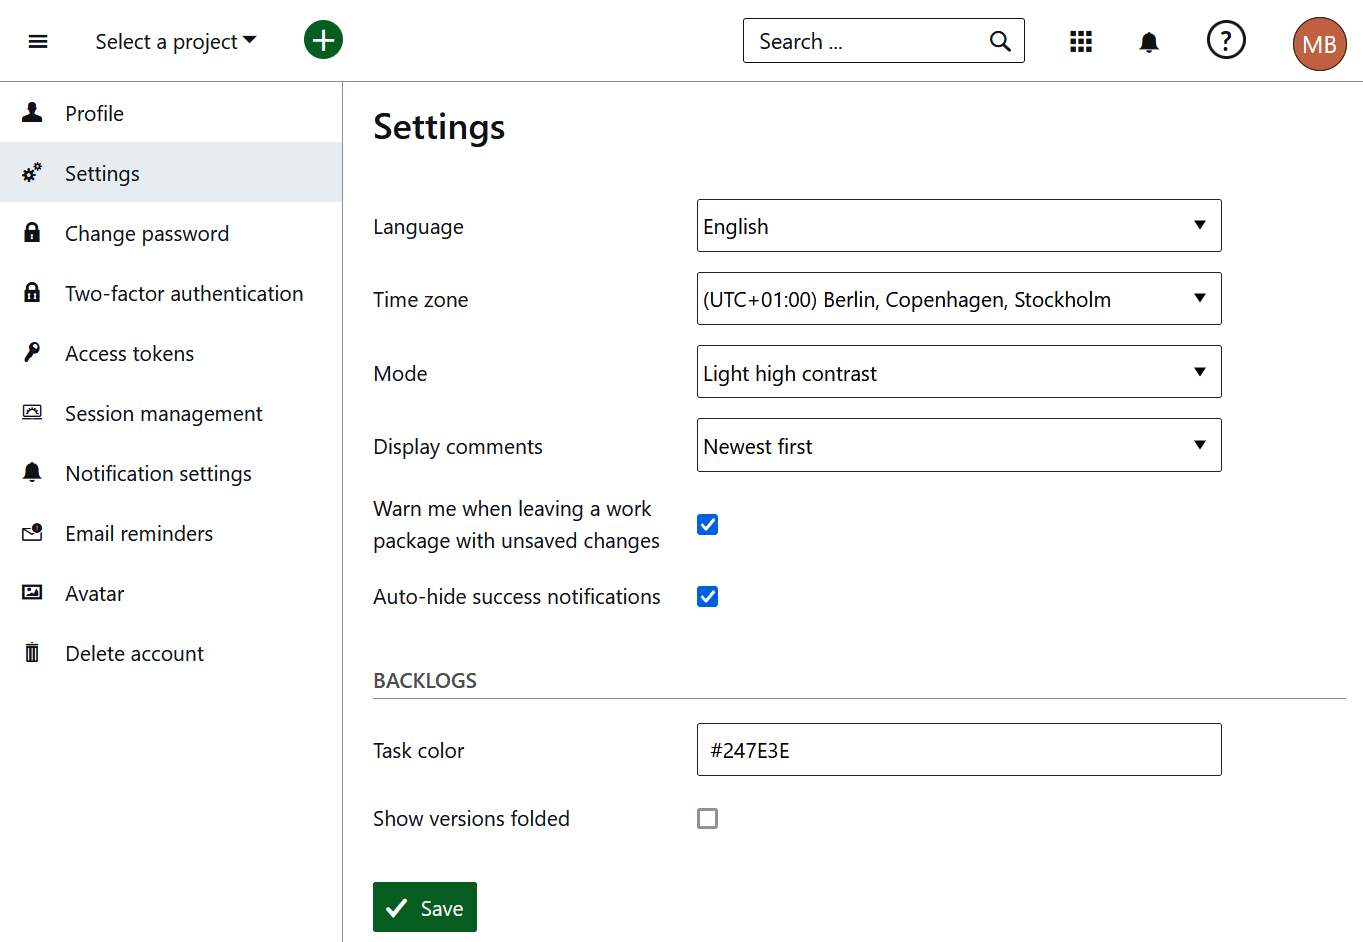
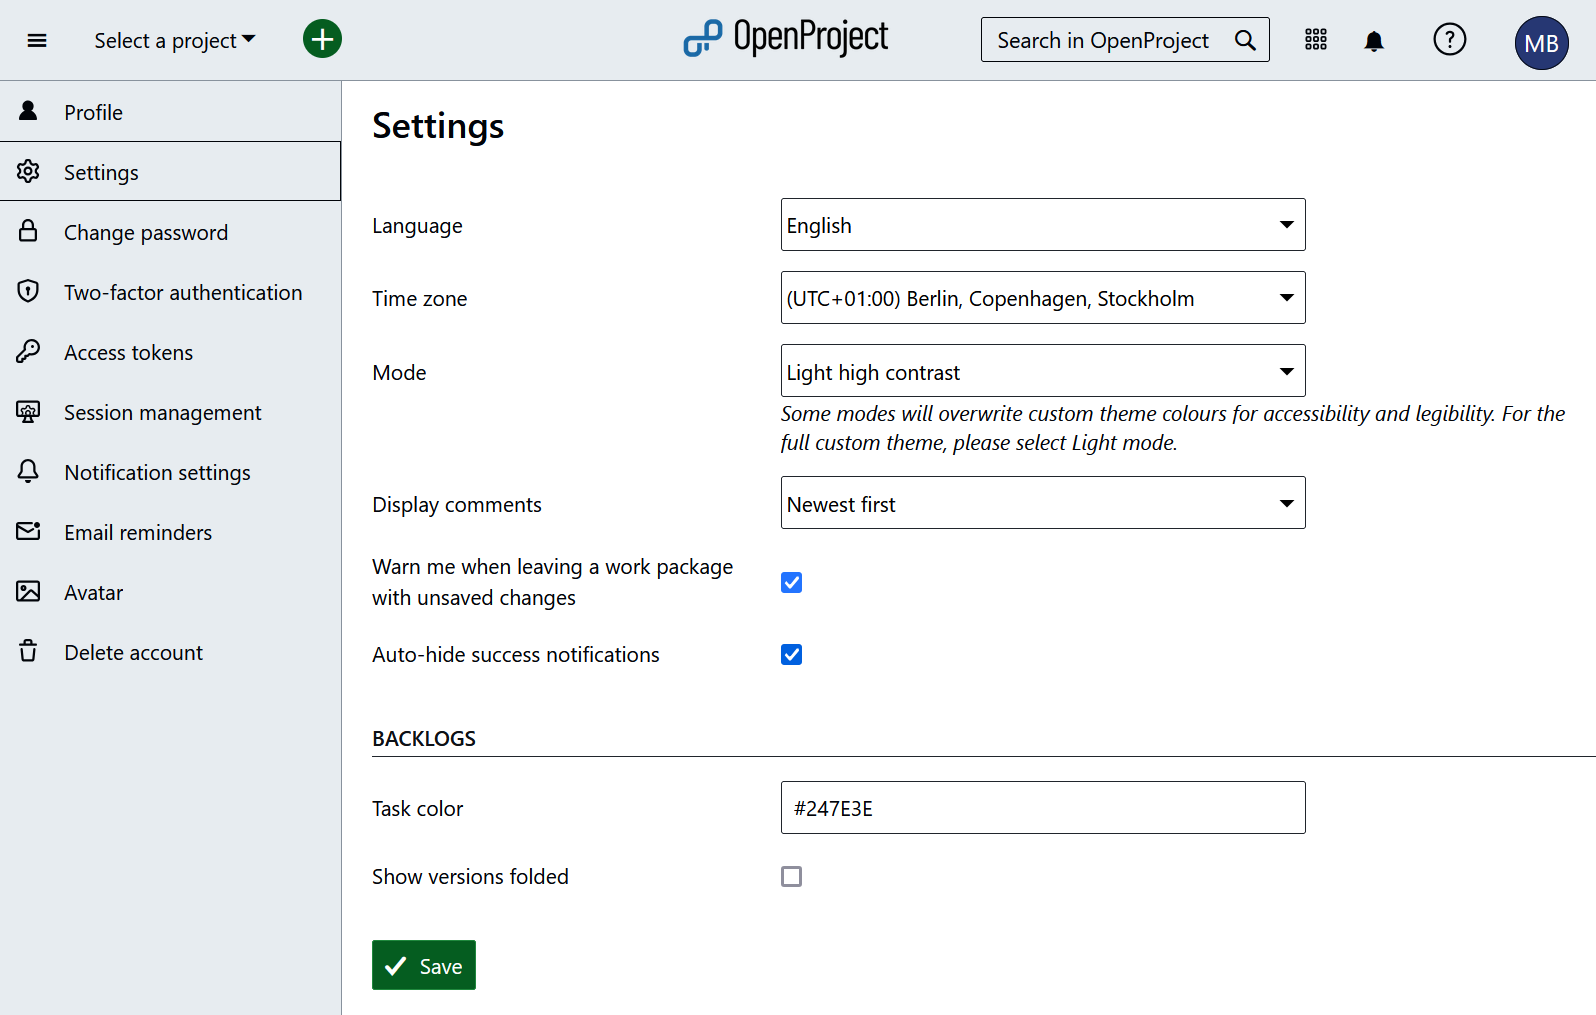
[#56634] 14.4 Documentation: OpenProject Dark Mode  https://community.openproject.org/work_packages/56634
[#56634] 14.4 Documentation: OpenProject Dark Mode

https://community.openproject.org/work_packages/56634

diff --git a/docs/getting-started/my-account/README.md b/docs/getting-started/my-account/README.md
@@ -48,7 +48,7 @@ Also, you can activate a **warning if you are leaving a work package with unsave
 
 Additionally, you can activate to **auto-hide success notifications** from the system. This (only) means that the green pop-up success notifications will be removed automatically after five seconds.
 
-![OpenProject_my_account_page](openproject_my_account_page_new.png)
+![OpenProject_my_account_page](openproject_my_account_page_settings.png)
 
 ### Change your language
 
@@ -76,6 +76,12 @@ This mode is recommended for users with visuals impairment.
 
 ![High contrast mode in OpenProject](openproject_my_account_high_contrast_mode.png)
 
+### Select the dark mode
+
+In the dropdown menu **Mode** you can pick the color mode. The default setting is the **Light mode**. You can also select the **Dark mode**, which will change the color theme of the OpenProject instance for you.
+
+![Dark mode in OpenProject](openproject_my_account_dark_mode.png)
+
 ### Change the order to display comments
 
 You can select the order of the comments (for example of the comments for a work package which appear in the Activity tab). You can select the **oldest first** or **newest first** to display the comments.
@@ -100,7 +106,8 @@ Enter your new password and confirm it a second time.
 
 Press the blue **Save** button in order to confirm the password changes.
 
-> **Note**: You cannot reset your Google password in OpenProject. If you authenticate with a Google/Gmail account, please go to your Google account administration in order to change your password.
+> [!NOTE]
+> You cannot reset your Google password in OpenProject. If you authenticate with a Google/Gmail account, please go to your Google account administration in order to change your password.
 
 ## Two-factor authentication
 
@@ -196,7 +203,9 @@ RSS tokens allow users to keep up with the latest changes in this OpenProject in
 
 Create a new token by clicking the **+RSS token** button. This will create your token and trigger a message showing you the access token.
 
-> **Note**: You will only be able to see the RSS access token once, directly after you create it. Make sure to copy it.
+> [!IMPORTANT]
+>
+> You will only be able to see the RSS access token once, directly after you create it. Make sure to copy it.
 
 ![OpenProject RSS token](openproject_my_account_access_tokens_rss.png)
 
@@ -209,7 +218,9 @@ To view and manage your OpenProject sessions navigate to **My account** and choo
 - **Current sessions**: here you can see all of your sessions. If for example you are logged into OpenProject from different browsers or devices, all will be shown in the list. Current session is the one you are currently using. You can terminate the sessions that are no longer in use. Inactive sessions will be removed from the list after 7 days (depending on the authentication settings they may become invalid earlier).
 - **Remembered devices**: here you can see a list of all devices that you are logged into using the "Stay logged in" option. You will have selected that option when [logging in](../sign-in-registration/). Whether or not that option is available and the duration of time for which you can stay logged in depends on the authentication settings of your instance.
 
-> **Note**: Closing a browser does not necessarily terminate the session. It might still be displayed in the list and will be reactivated if you open the browser. This depends on both your browser's and the OpenProject instance's settings.
+> [!NOTE]
+>
+> Closing a browser does not necessarily terminate the session. It might still be displayed in the list and will be reactivated if you open the browser. This depends on both your browser's and the OpenProject instance's settings.
 
 ## Notifications settings
 
@@ -233,7 +244,9 @@ Default: Enable daily email reminders: 2am, Monday - Friday.
 
 You can choose to receive emails immediately, or only on certain days and times, temporarily pause reminder emails, or opt for no reminders at all.
 
-> **Note**: if you have selected the *immediately when someone mentions me* option, you will only be notified once, i.e. this reminder will not be duplicated in a daily reminder. 
+> [!IMPORTANT]
+>
+> if you have selected the *immediately when someone mentions me* option, you will only be notified once, i.e. this reminder will not be duplicated in a daily reminder. 
 
 You can also opt-in to receive **email alerts for other items (that are not work packages)** whenever one of your project members:
 
@@ -256,7 +269,9 @@ OpenProject uses Gravatar as default profile image. It displays a preview of you
 
 Also, you can upload a **Custom Avatar** by choosing a Avatar to be uploaded from a file. Press the blue **Update** button to change your profile picture.
 
-> **Note**: The optimum size to upload a new profile picture is 128 by 128 pixel. Larger files will be cropped.
+> [!TIP]
+>
+> The optimum size to upload a new profile picture is 128 by 128 pixel. Larger files will be cropped.
 
 ## Delete account
 
@@ -266,6 +281,8 @@ To delete your account, select **Delete account** from the side menu and enter y
 
 ![openproject_my_account_delete_account](openproject_my_account_delete_account.png)
 
-> **Important**: Deleting a user account is permanent and cannot be reversed.
+> [!WARNING]
+>
+> Deleting a user account is permanent and cannot be reversed.
 
 If you cannot see the entry **Delete account** in the **My account** side menu, make sure the option "Users allowed to delete their account" is [activated in the administration](../../system-admin-guide/users-permissions/settings/#user-deletion).
